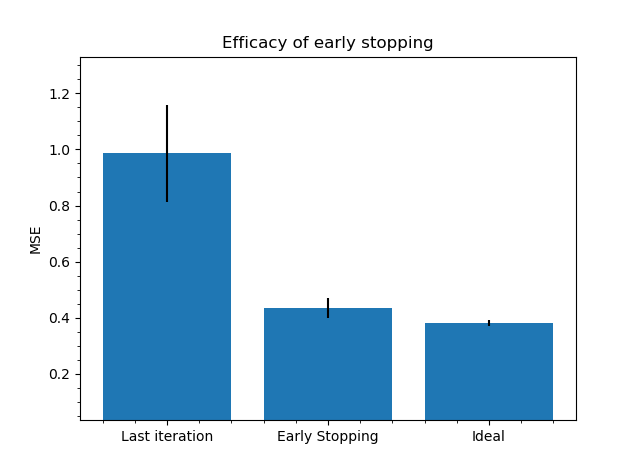
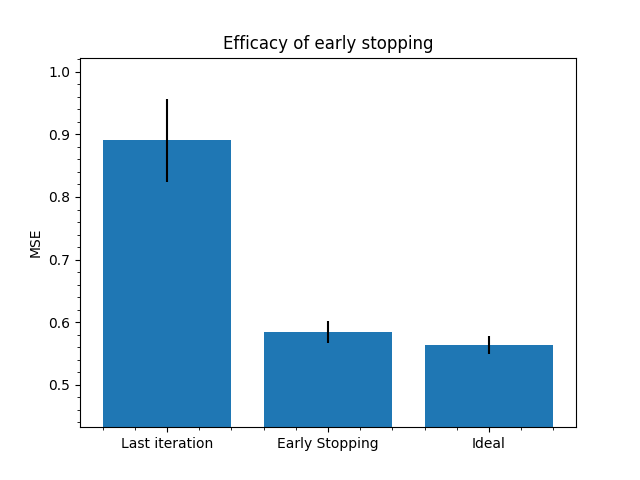
1.2.b done

diff --git a/report/report.tex b/report/report.tex
@@ -1,6 +1,7 @@
 \documentclass[a4paper]{article}
 \usepackage{amsmath, amssymb, bm}
 \usepackage[margin=1in]{geometry}
+\usepackage[table,xcdraw]{xcolor}
 \usepackage{graphicx}
 \begin{document}
 \begin{titlepage}
@@ -97,7 +98,41 @@ zero and it makes the neural network simpler.
   \caption{Plots of the variation of MSE of the training and test set with the value of $\alpha$}
   \end{center}
 \end{figure}
+\clearpage
 \subsubsection{Early Stopping}
+\begin{figure}[h]
+  \begin{center}
+    \includegraphics[width=0.5\textwidth]{ex_1_2_b.png}\\
+    \caption{Early stopping MSE comparision when randint(10000)}
+    \includegraphics[width=0.5\textwidth]{ex_1_2_b_rand2.png}\\
+    \caption{Early stopping MSE comparision when randint(2)}
+  \end{center}
+\end{figure}
+As 1.1.b the variability of the MSE across seeds is expected, so it is expected that
+early stopping happens at different iteration number if the random seed is differnent.
+This expectation is coherent with our results. Below is a table of early stopped
+iteration number and its random seed.
+\begin{table}[h]
+  \begin{center}
+  \begin{tabular}{|
+    >{\columncolor[HTML]{C0C0C0}}l |l|l|l|l|l|l|l|l|l|l|}
+    \hline
+    Early stopping iteration number/20 & 24 & 21 & 21 & 24 & 21 & 21 & 21 & 21 & 24 & 24 \\ \hline
+    Random seed                        & 1  & 0  & 0  & 1  & 0  & 0  & 0  & 0  & 1  & 1  \\ \hline
+  \end{tabular}
+  \hspace{2em}
+  \caption{np.random.randint(2)}
+  \begin{tabular}{|
+    >{\columncolor[HTML]{C0C0C0}}l |l|l|l|l|l|l|l|l|l|l|}
+    \hline
+    Early stopping iteration number/20 & 9    & 8    & 4    & 9    & 7    & 8    & 6    & 7    & 7    & 6    \\ \hline
+    Random seed                        & 3703 & 1380 & 3277 & 3711 & 1547 & 8732 & 4389 & 6998 & 7911 & 4603 \\ \hline
+  \end{tabular}
+  \caption{np.random.randint(10000)}
+  \end{center}
+\end{table}
+The standard form of early stopping could stop earlier than our imlementation. But it cannot ensure minimum MSE.
+In our implementation ensures the minimum value of MSE.
 \subsubsection{Combining the tricks}
 \section{Face Recognition with Neural Networks}
 \subsection{Pose Recognition}
